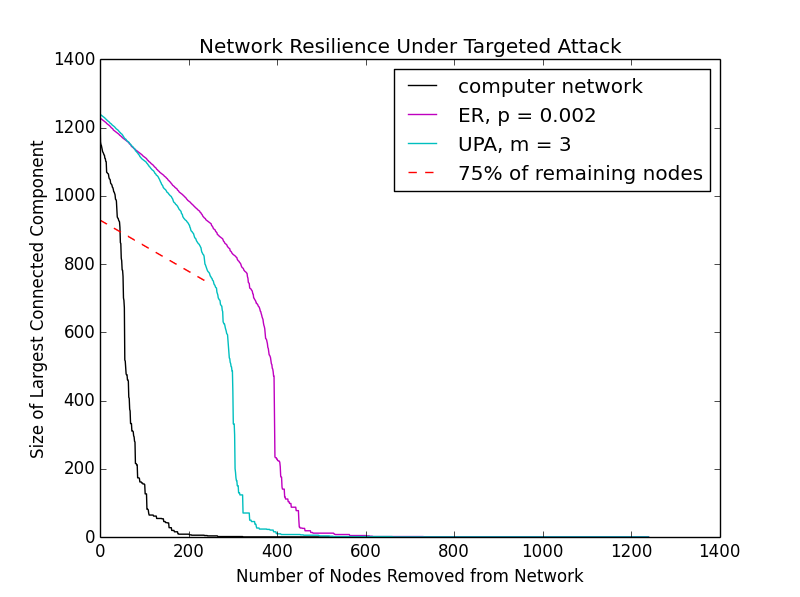
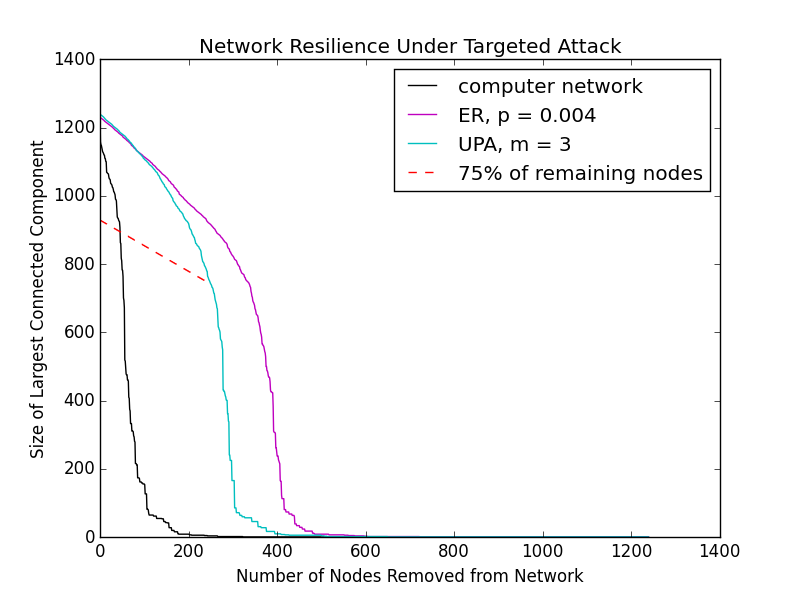
Fixed ER graph implementation so that it runs through nodes only once

diff --git a/Module 2/app2.py b/Module 2/app2.py
@@ -261,14 +261,13 @@ def gen_er_ugraph(n, p):
             # loop over each potential adjacent node
             if node not in ugraph:
                 ugraph[node] = set()
-            for neighbor in range(0, n):
-                if neighbor != node:             # no self-loops
-                    if neighbor not in ugraph:
-                        ugraph[neighbor] = set()
-                    a = random.random()
-                    if a < p:
-                        ugraph[node].add(neighbor)
-                        ugraph[neighbor].add(node)
+            for neighbor in range(node + 1, n):
+                if neighbor not in ugraph:
+                    ugraph[neighbor] = set()
+                a = random.random()
+                if a < p:
+                    ugraph[node].add(neighbor)
+                    ugraph[neighbor].add(node)
         return ugraph
 
 def make_complete_ugraph(num_nodes):
@@ -340,15 +339,15 @@ def make_graphs():
     degree_bar = num_edges / len(network)
     
     # calculate p for ER graph that will have num_edges (approximately 3047)
-    # E(edges) = n * p, therefore p = E(edges) / n
-    prob_er = degree_bar / len(network)   # p = 0.00198
+    # E(edges) = 0.5(n - 1) * p, therefore p = 2 * E(edges) / (n - 1)
+    prob_er = 2 * degree_bar / (len(network) - 1)   # p = 0.00397
     
     # create ER graph with same number of nodes and edges as computer network
     # n = 1239, p = 0.002
-    er_ugraph = gen_er_ugraph(len(network), prob_er)  # 3046 edges
+    er_ugraph = gen_er_ugraph(len(network), prob_er)  # 3037 edges
     
     # create upa graph with same number of nodes and edges as computer network
-    # n = 1239, m = 3
+    # n = 1239, m = 3D
     upa_ugraph = upa(len(network), int(math.ceil(degree_bar)))   # 3697 edges
     
     return network, er_ugraph, upa_ugraph
@@ -383,7 +382,7 @@ def question1(network, er_ugraph, upa_ugraph):
     # plot
     plt.figure()
     plt.plot(nodes, resilience_net, 'k-', label='computer network')
-    plt.plot(nodes, resilience_er, 'm-', label='ER, p = 0.002')
+    plt.plot(nodes, resilience_er, 'm-', label='ER, p = 0.004')
     plt.plot(nodes, resilience_upa, 'c-', label='UPA, m = 3')
     plt.plot(first20pct, size75pct, 'r--', label='75% of remaining nodes')
     plt.legend()
@@ -516,7 +515,7 @@ def question4(network, er_ugraph, upa_ugraph):
     # plot
     plt.figure()
     plt.plot(nodes, resilience_net, 'k-', label='computer network')
-    plt.plot(nodes, resilience_er, 'm-', label='ER, p = 0.002')
+    plt.plot(nodes, resilience_er, 'm-', label='ER, p = 0.004')
     plt.plot(nodes, resilience_upa, 'c-', label='UPA, m = 3')
     plt.plot(first20pct, size75pct, 'r--', label='75% of remaining nodes')
     plt.legend()
@@ -531,8 +530,8 @@ def run():
     """Run the analysis"""
     network, er_ugraph, upa_ugraph = make_graphs()
     
-    #question1(network, er_ugraph, upa_ugraph)
-    #question3()
+    question1(network, er_ugraph, upa_ugraph)
+    question3()
     question4(network, er_ugraph, upa_ugraph)
     
     return None
